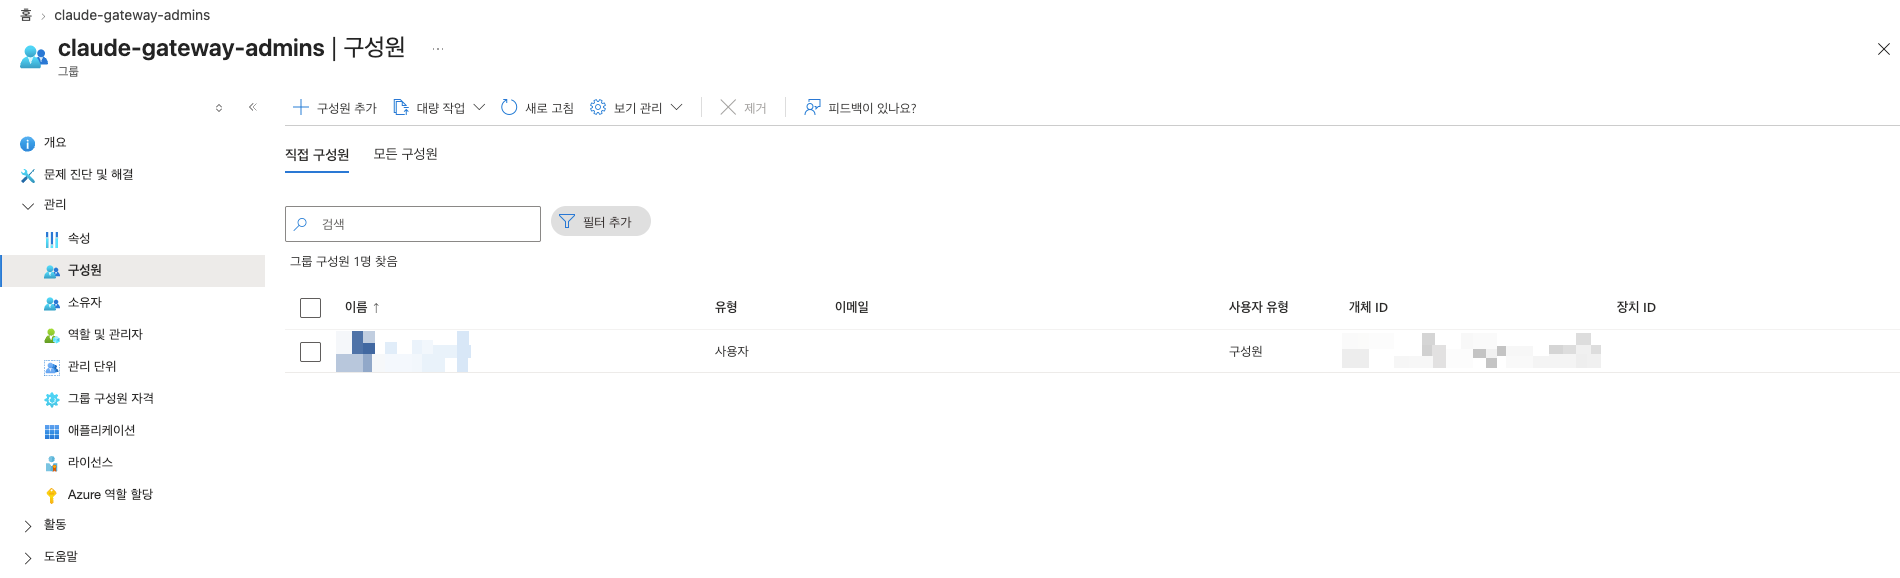
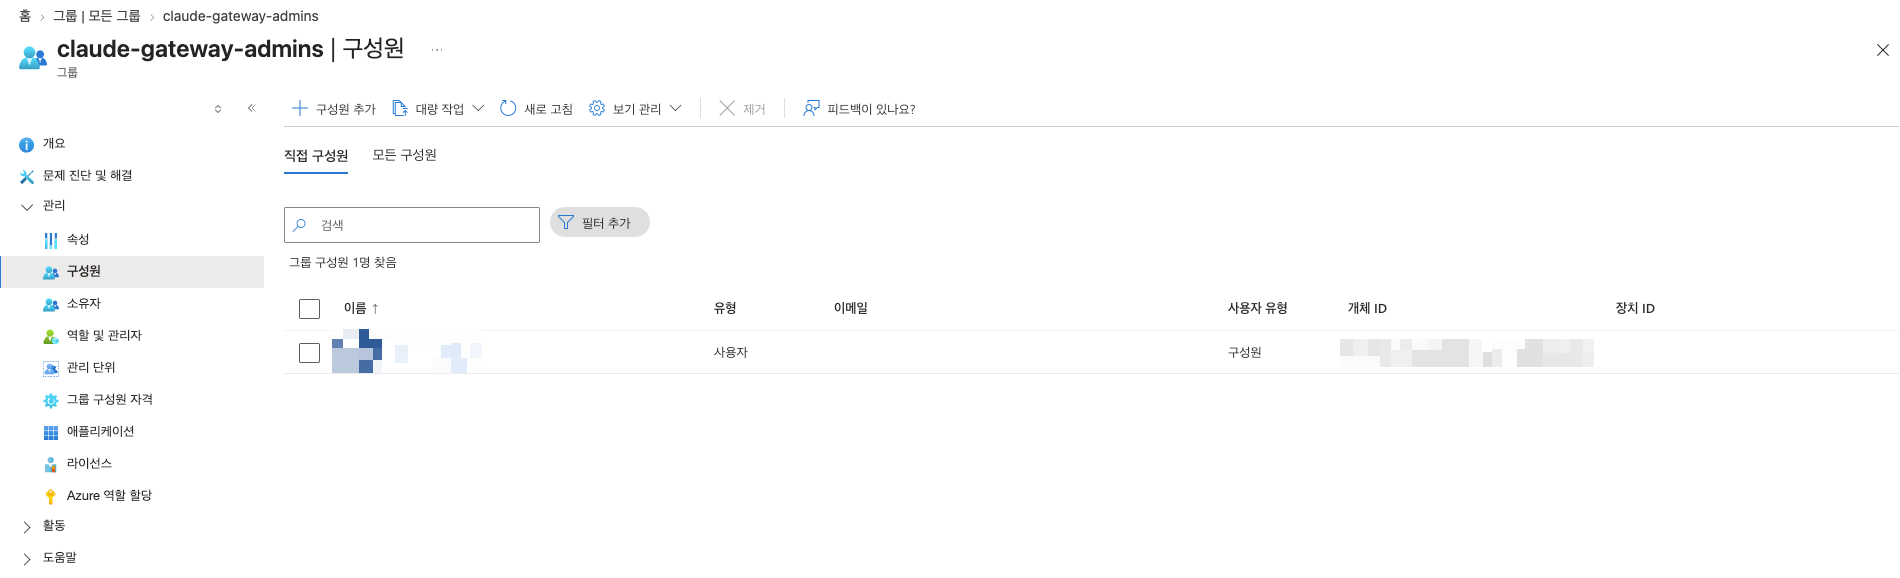
docs: 1.5 포털 확인을 그룹 목록·구성원 두 화면으로 교체
- 새로 만든 그룹 기준 스크린샷 (상단 헤더 잘라 냄, 다른 그룹·ID 가림)

diff --git a/docs/01-entra-id.md b/docs/01-entra-id.md
@@ -234,7 +234,11 @@ GRP=xxxxxxxx-xxxx-xxxx-xxxx-xxxxxxxxxxxx
 `GRP=` 뒤에 GUID 가 나오면 성공입니다.
 
 ### 포털에서 확인하는 방법
-**Microsoft Entra ID → 관리 → 그룹 → 모든 그룹 → claude-gateway-admins → 관리 → 구성원**에 현재 계정이 보입니다.
+**Microsoft Entra ID → 관리 → 그룹 → 모든 그룹**에 그룹 유형이 `보안` 인 `claude-gateway-admins` 가 보입니다.
+
+![모든 그룹의 어드민 그룹](images/01-admin-group-list.png)
+
+그룹을 열고 **관리 → 구성원**에 현재 계정이 보입니다.
 
 ![어드민 그룹 구성원](images/01-admin-group-members.png)
 
